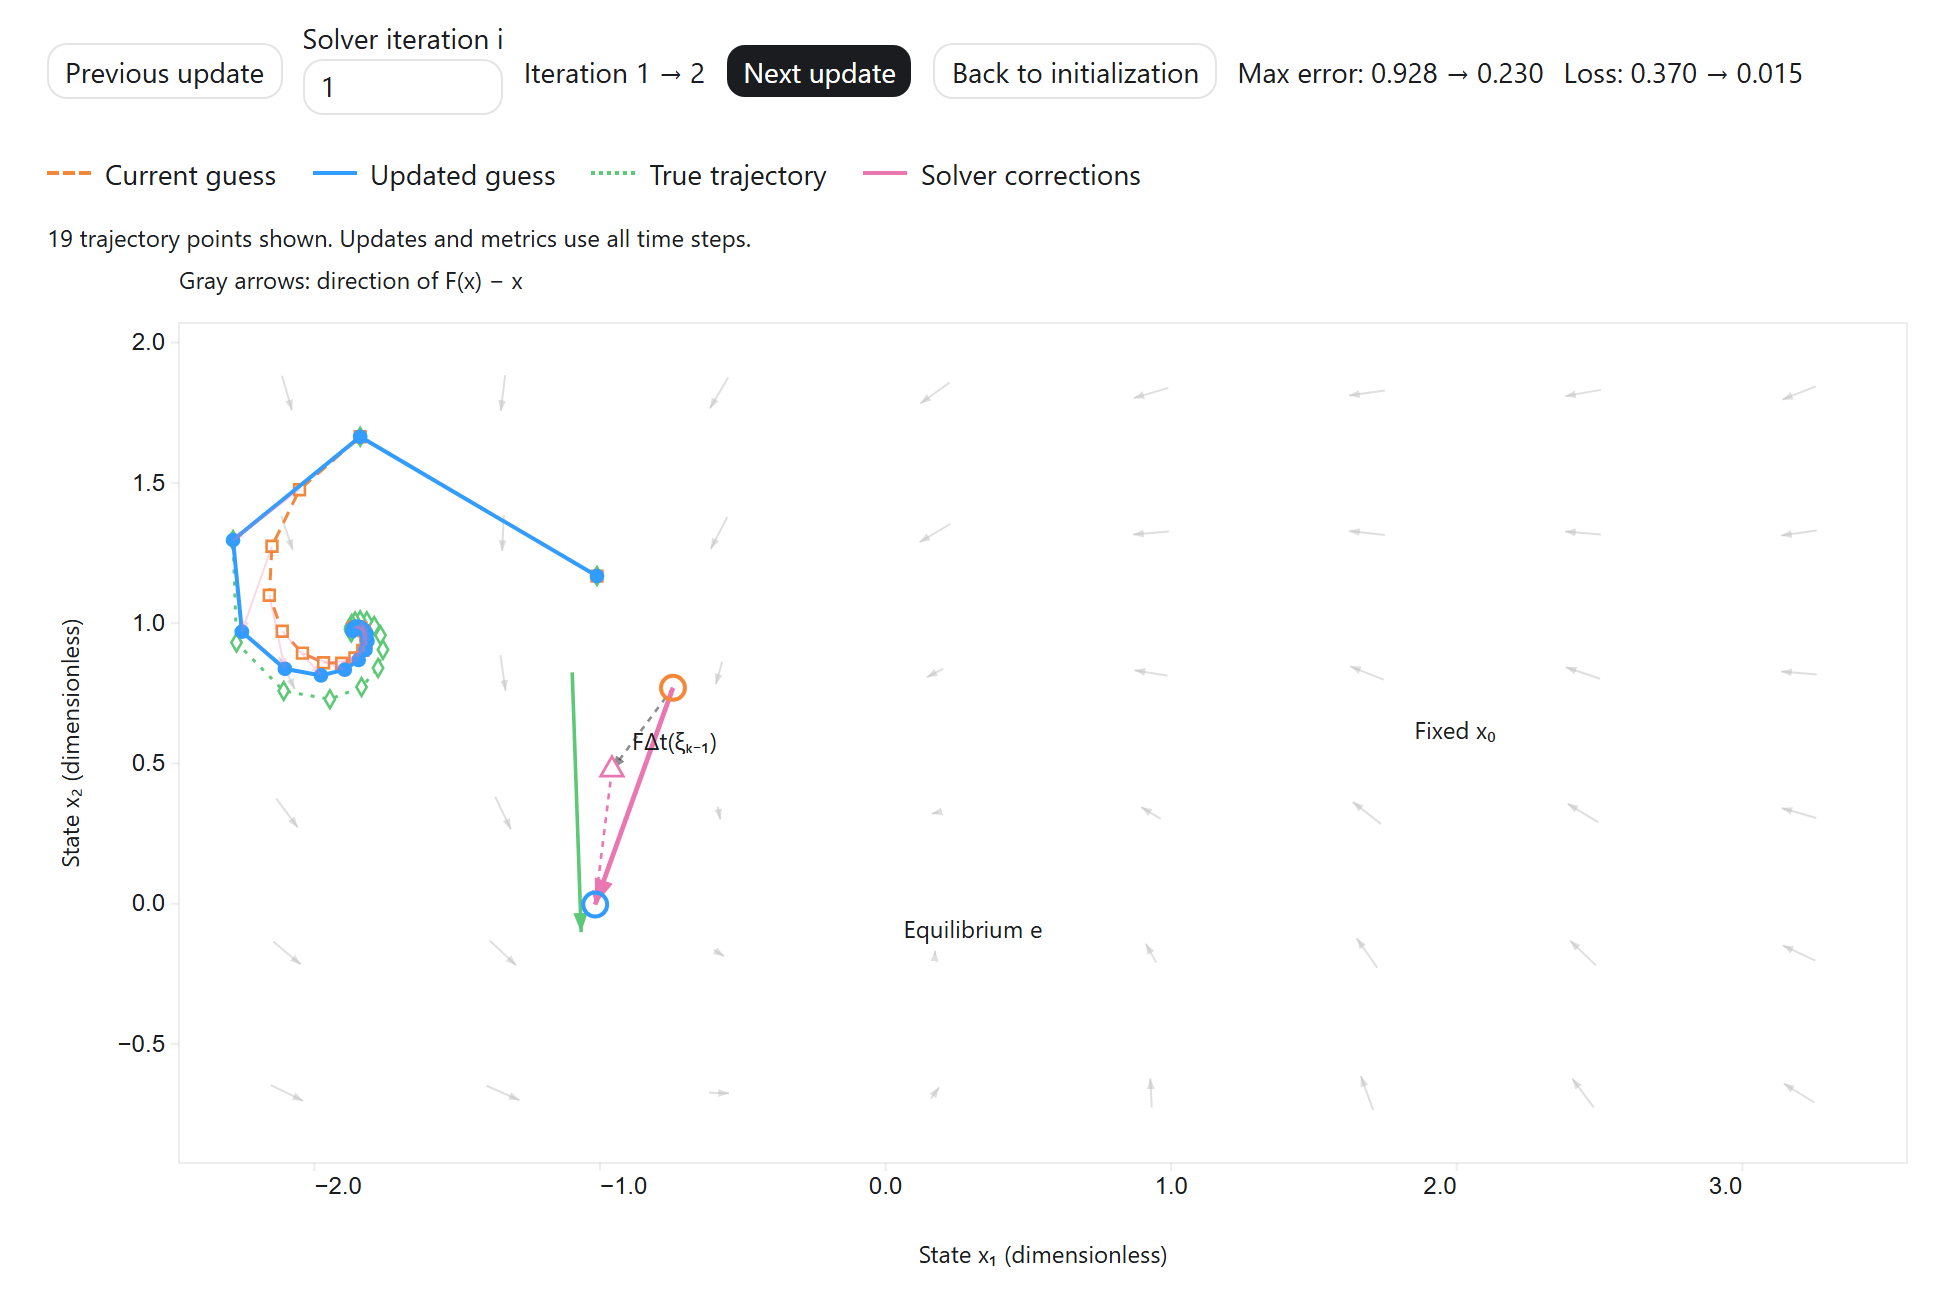
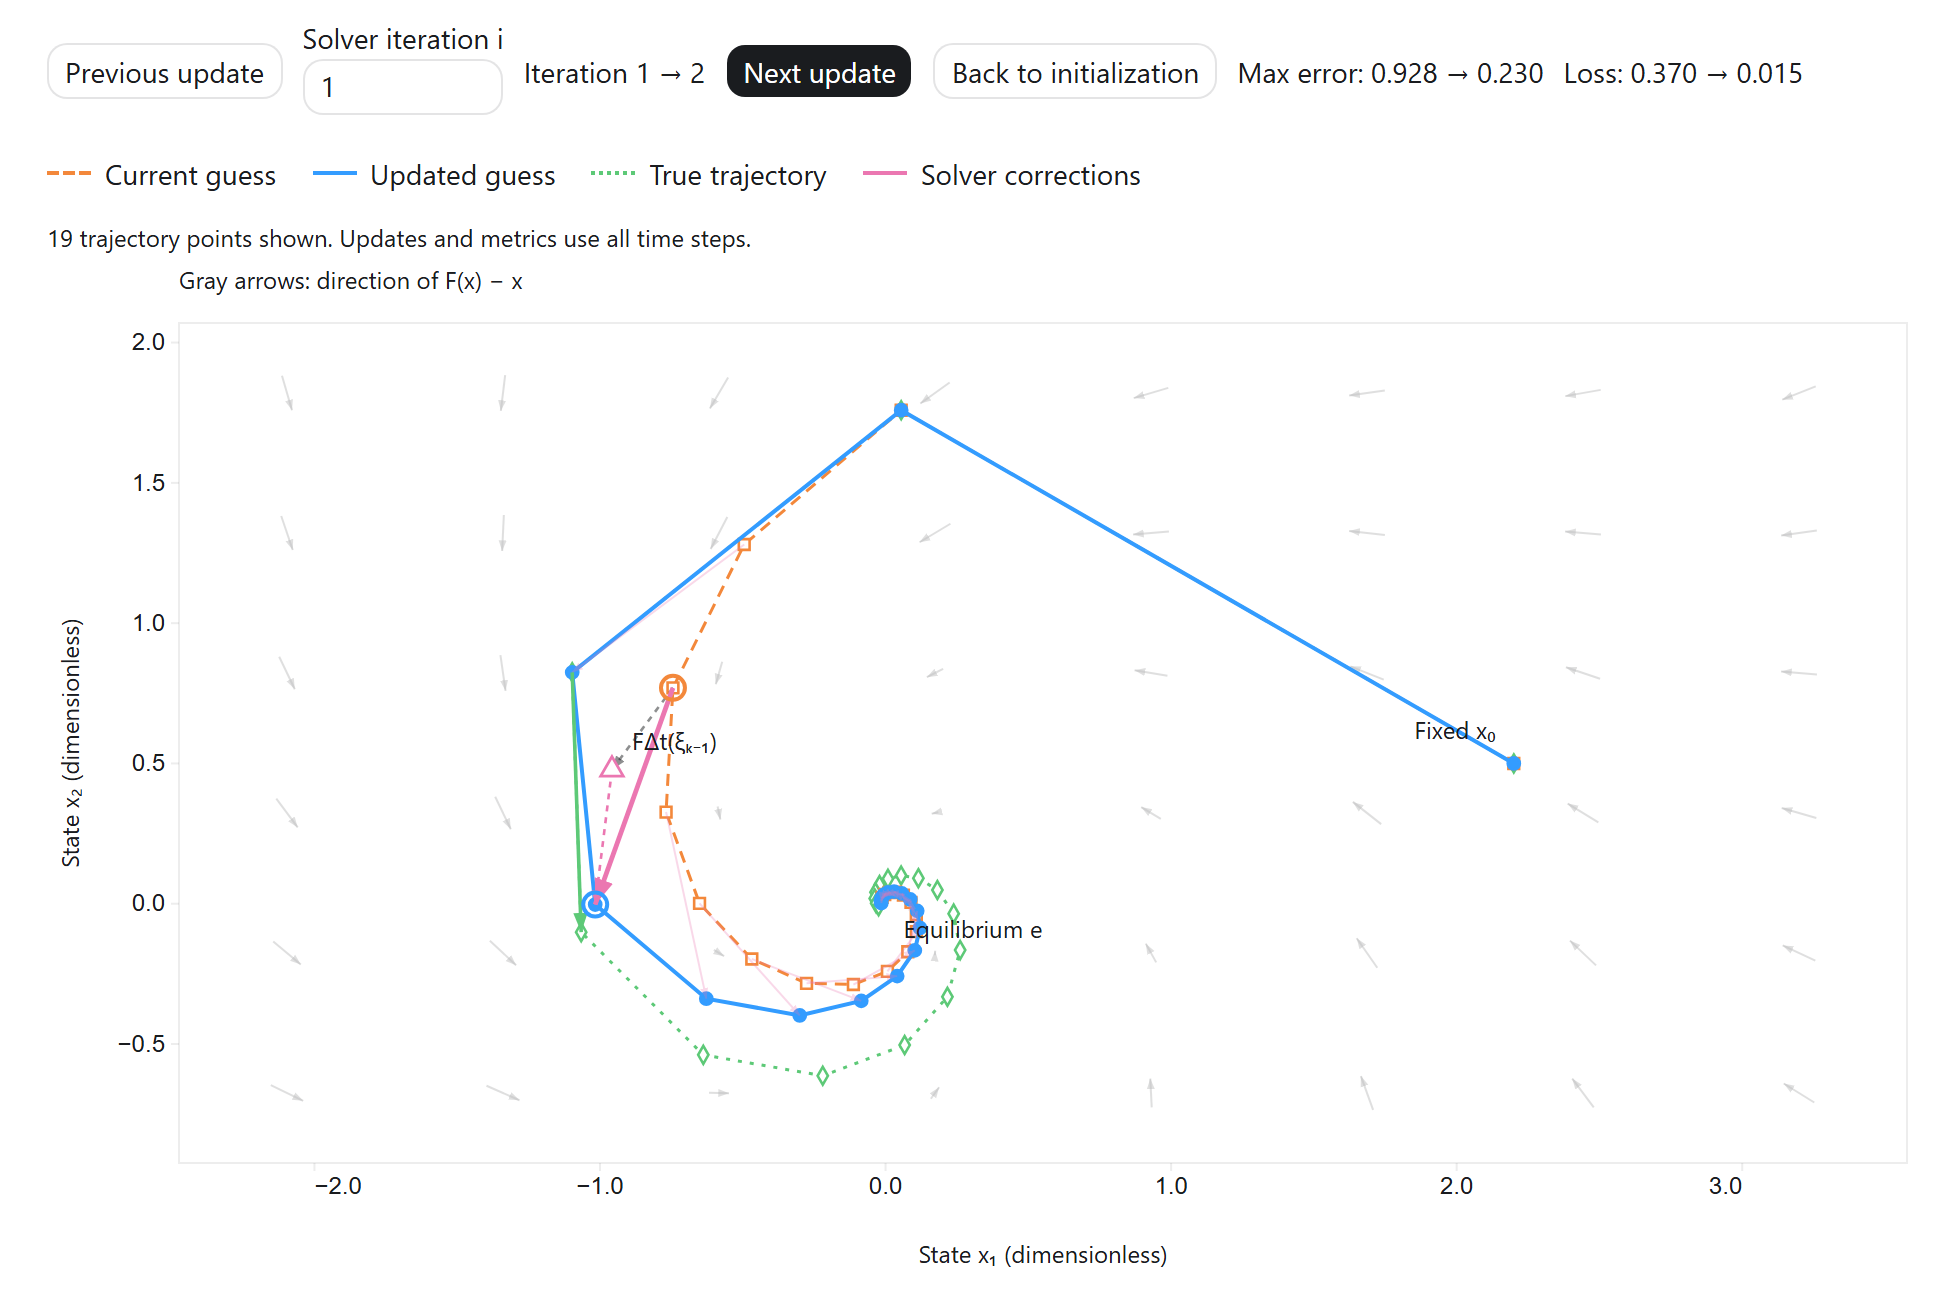
Fix saved-state replay, README screenshot, and page-shell contrast
Fixes from an independent review of the demo port:

- Save only completed solver iterations. Clicking a legend item while a
  long seek was running saved the uncomputed target (e.g. iteration 1000
  at N = 1,000,000), so every later visit replayed it for 20+ minutes
  behind a hidden plot. Saved runs above 5e6 state-steps now reopen at
  iteration 0.
- Regenerate the README screenshots after the plot has settled. The
  light-mode image was captured mid-transition, so the trajectories did
  not line up with the x0 and equilibrium markers.
- Raise light-mode contrast of the intro text, footer, and shell links
  from 3.2-4.0:1 to 6.3-8.4:1.
- Show a message instead of dead controls when D3 cannot be loaded from
  jsDelivr.

diff --git a/docs/index.html b/docs/index.html
@@ -12,9 +12,13 @@
 <style>
   .ppg-page { max-width: 980px; margin: 0 auto; padding: 20px 16px 40px; }
   .ppg-header { margin-bottom: 18px; font-size: 14px; }
-  .ppg-lede { margin: 8px 0 4px; max-width: 70ch; line-height: 1.6; color: var(--muted-foreground); }
+  .ppg-lede { margin: 8px 0 4px; max-width: 70ch; line-height: 1.6;
+    color: light-dark(rgb(26 28 31 / 78%), rgb(255 255 255 / 70%)); }
   .ppg-footer { display: flex; flex-wrap: wrap; gap: 6px 16px; margin-top: 28px; padding-top: 12px;
-    border-top: 1px solid var(--border); color: var(--muted-foreground); font-size: 14px; }
+    border-top: 1px solid var(--border); color: light-dark(rgb(26 28 31 / 78%), rgb(255 255 255 / 70%)); font-size: 14px; }
+  .ppg-footer .btn-ghost { color: inherit; }
+  /* Darker link color in light mode keeps shell links above 4.5:1 contrast. */
+  .ppg-page a { color: light-dark(rgb(0 95 184), rgb(156 207 255)); }
 </style>
 </head>
 <body>
@@ -1181,6 +1185,7 @@ html>body{padding:0}</style>
   </details>
   <div class="gp-tooltip text-small" role="tooltip" hidden></div>
   <script src="https://cdn.jsdelivr.net/npm/d3@7.9.0/dist/d3.min.js" integrity="sha384-CjloA8y00+1SDAUkjs099PVfnY2KmDC2BZnws9kh8D/lX1s46w6EPhpXdqMfjK6i" crossorigin="anonymous"></script>
+  <script>if(!window.d3){const v=document.getElementById('gp-validation');v.hidden=false;v.textContent='The plotting library (D3) could not be loaded from cdn.jsdelivr.net, so the demo cannot run. Check your connection or content blocker, then reload.';}</script>
   <script id="gp-worker-source" type="text/plain">const PhaseExpressions = (() => {
   const functions = {sin:1,cos:1,tan:1,tanh:1,exp:1,log:1,sqrt:1,atan:1,sinh:1,cosh:1,pow:2};
   function parse(source) {
@@ -1656,6 +1661,8 @@ self.onmessage=async event=>{
   const storageKey='ppg-guess-dynamics-v1';
   function loadSaved(){try{return JSON.parse(localStorage.getItem(storageKey)||'null');}catch{return null;}}
   restore(loadSaved());
+  // Reopen long saved runs at iteration 0 instead of replaying them behind a hidden plot.
+  if(state.steps*state.iteration>5e6)state.iteration=0;
   function config(){const {iteration,k,visible,...c}=state;return c;}
   function validate(values){
     if(!values||typeof values!=='object'||Array.isArray(values))throw new Error('Expected a configuration object.');
@@ -1668,7 +1675,8 @@ self.onmessage=async event=>{
     }
   }
   function persist(){
-    try{localStorage.setItem(storageKey,JSON.stringify(state));}catch{}
+    // Save only completed work; a pending seek target would be replayed on every reload.
+    try{localStorage.setItem(storageKey,JSON.stringify({...state,iteration:snapshot?.iteration??0,k:snapshot?.k??state.k}));}catch{}
   }
   function reportError(error){if(error?.name==='AbortError')return;$('validation').hidden=false;$('validation').textContent=error?.message||String(error);}
   function cancelled(){const e=new Error('Superseded or stopped.');e.name='AbortError';return e;}
